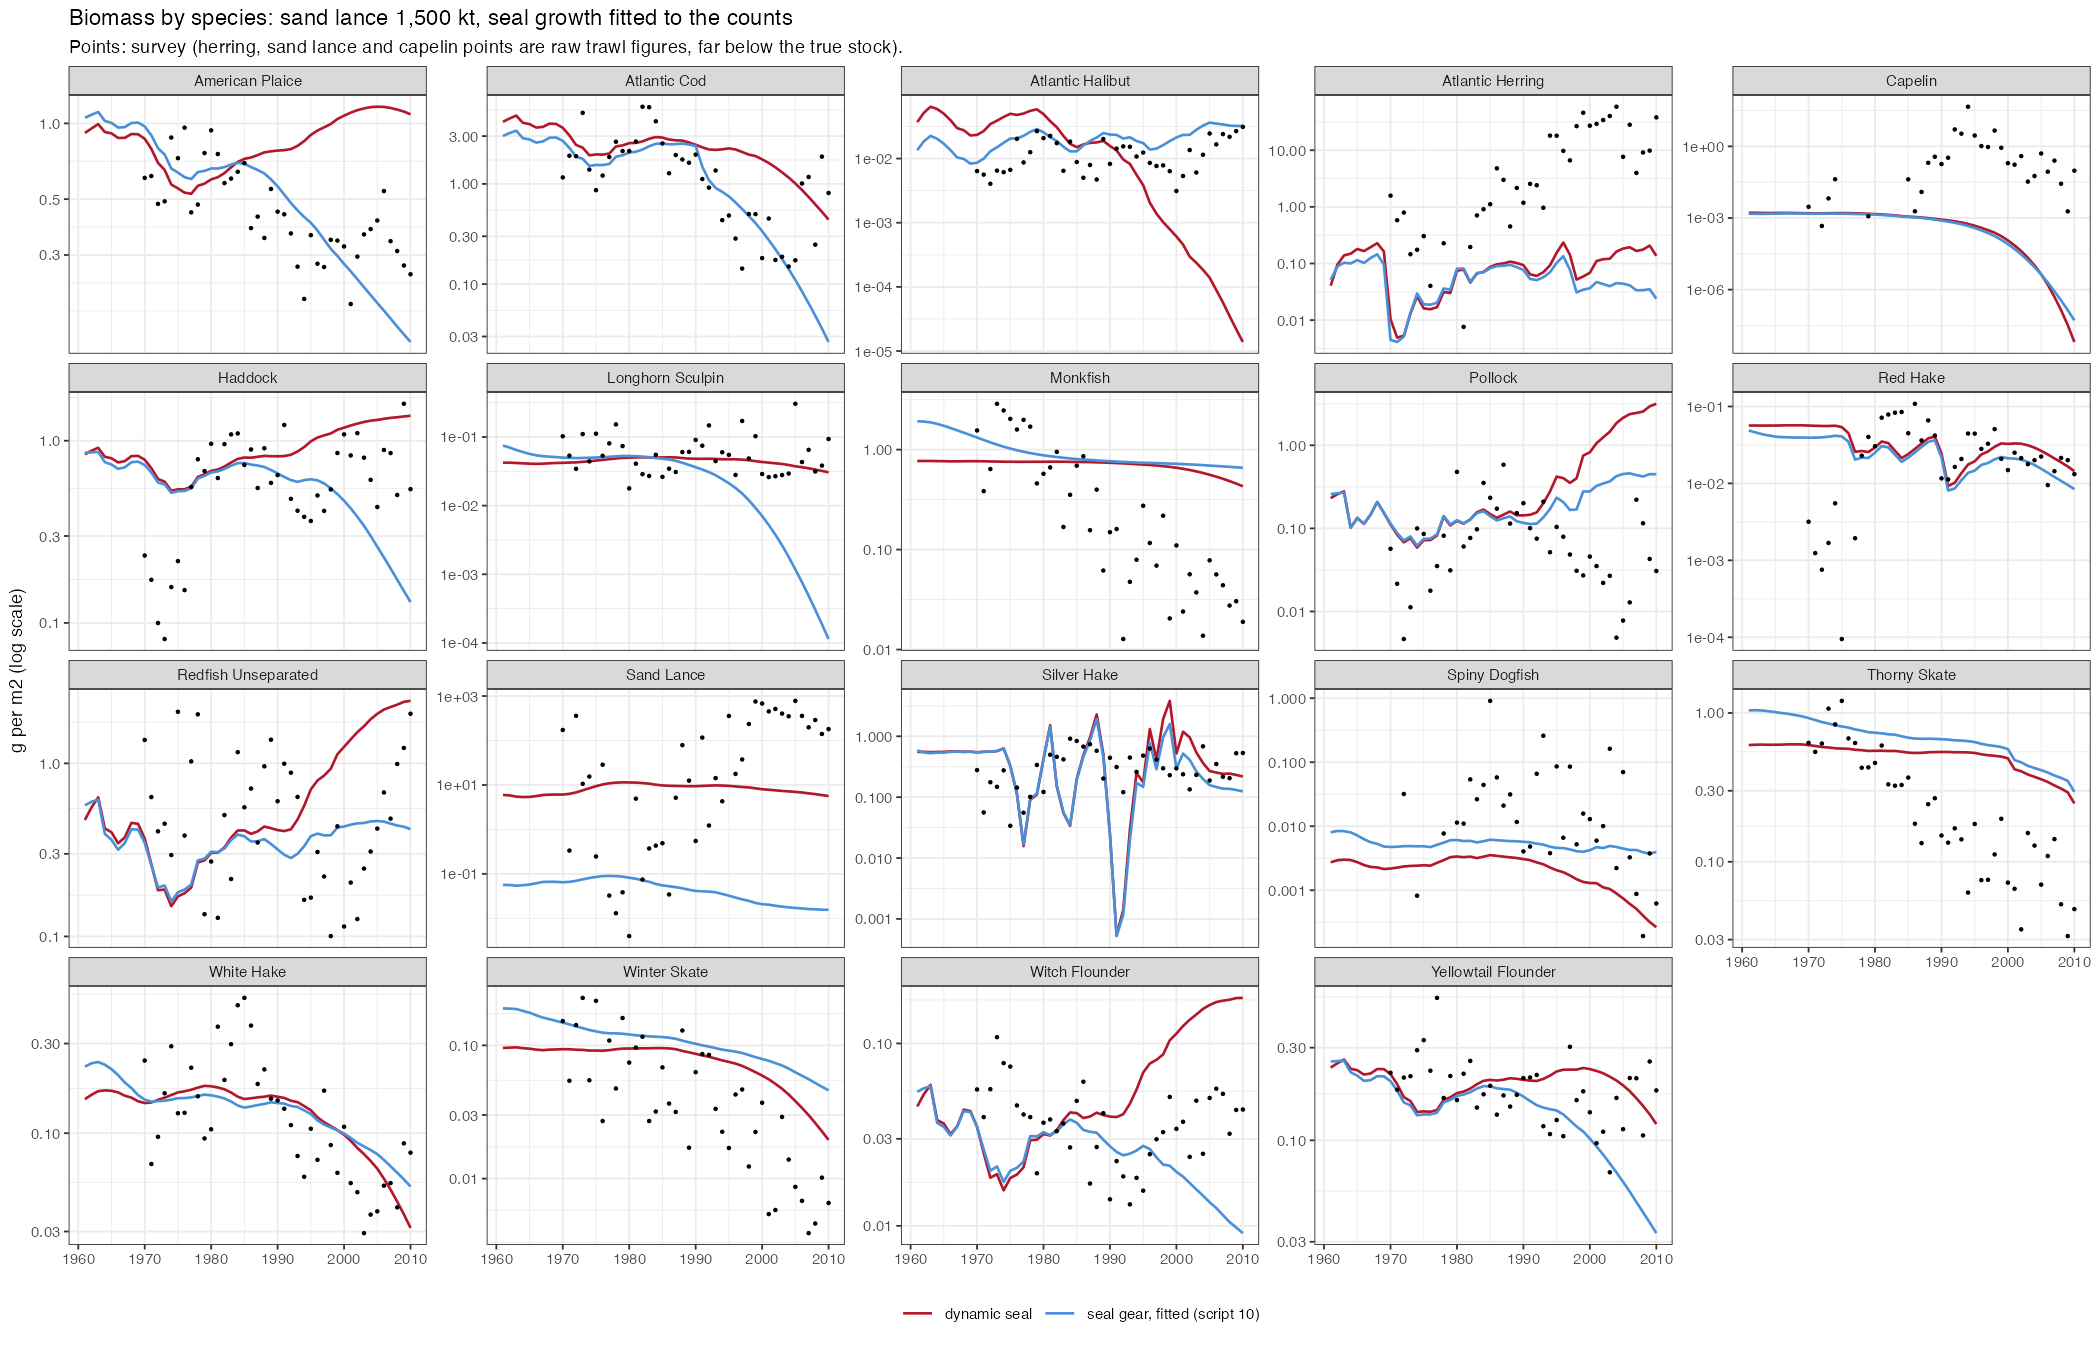
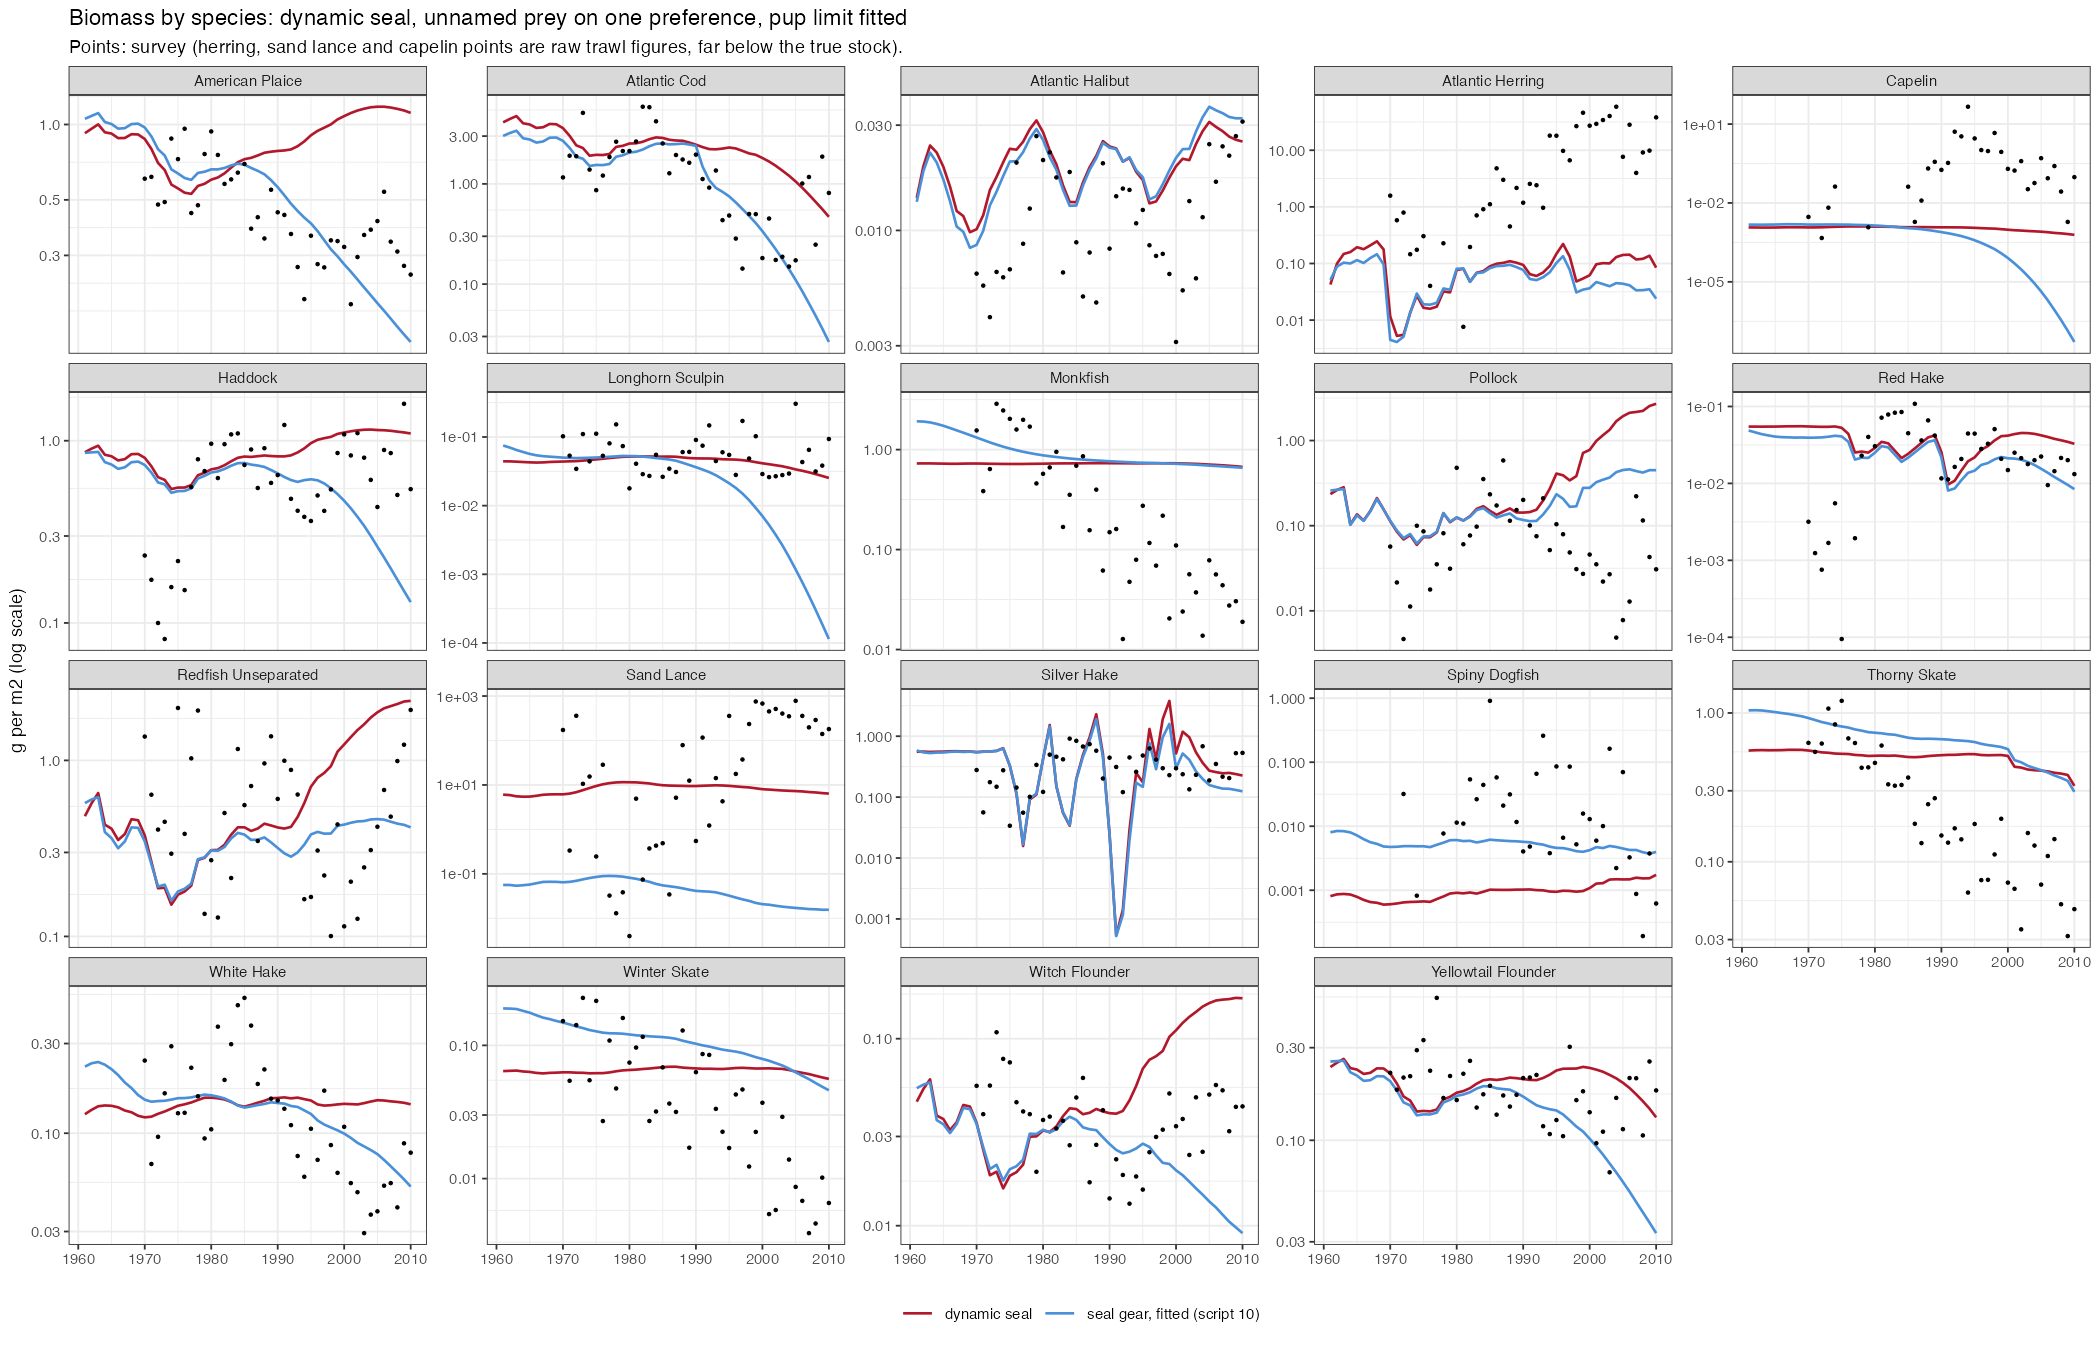
Fix seal preference for unnamed prey and fit a seal pup limit
The species Bowen & Harrison do not name now share one seal preference,
which stops seals eating out halibut. Script 9 fits the seal's pup limit
with its other two rates.

diff --git a/HANDOVER_2026-11-26.md b/HANDOVER_2026-11-26.md
@@ -1895,6 +1895,47 @@ temperature or the seal.
 Julia also judged the size of cod in the seal diet (118 g against 201 g
 measured) close enough.
 
+## 29. Fishing on cod, the halibut fault, and a pup limit for seals
+
+**Does reported fishing collapse cod?** Tested in the dynamic seal model by
+adjusting cod catchability year by year until the model takes exactly the
+reported 4VW cod catch (scratch test, not in the repo). It does not: cod in
+1994-2004 stays at 0.72 of its 1978-81 level (observed 0.13). The model takes
+the 60-115 kt of 1985-92 with a fishing mortality of only 0.17-0.25 a year,
+because it holds 2.8-3.6 g/m2 of cod where the survey shows 1-2. Taking 1.5
+times the reported catch removes cod completely by 1988. So the outcome turns
+on whether the model's cod can replace about 100 kt a year, and it sits
+between "no collapse" and "gone too early". In the standard run the trawl
+effort series also falls from 0.78 (1985) to 0.44 (1992) while reported catch
+held up, so the model's cod catch is 20-45% below the reported one in 1981-87
+and in 1992. The assessment's fishing mortality by year could not be read from
+the DFO documents found (figures only); Mohn & Rowe (2012) give 0.035 for ages
+5-15 after 1993 and a natural mortality of ages 5+ peaking near 1.1.
+
+**Halibut.** Halibut fell to nothing in the section 27 run because of a fault
+in script 8. The 1.7% of the diet that Bowen & Harrison do not name was
+shared equally among the 13 other species, which forced the seal's highest
+preference (1.0) onto halibut, a rare species; seal mortality on young halibut
+reached 8 a year by 2000. Script 8 now gives the unnamed species one shared
+preference, so the seal takes them in proportion to what is there. Halibut
+then holds (0.025 g/m2 in 2010, survey 0.031). Halibut was not what let
+plaice, haddock and redfish rise: predation on their young is under 0.1 a
+year from all predators together. They rise because trawl effort falls from
+0.68 (1990) to 0.05 (2000) and seal mortality on them stays small (0.07 a
+year on young plaice in 2005). Julia's point stands that Bowen & Harrison is
+a snapshot and these species may need a larger place in the later seal diet.
+
+**Seal plateau.** Script 9 now fits a third seal value with
+`FIT_SEALS_IN_FULL_MODEL=1`: the limit on pups recruited a year (the seal's
+R_max). Fitted: erepro 0.0067, harvest 0.057 a year, pup limit 7.2e4. Seals
+are 228/225 thousand (model/count) in 2005 and 331/280 in 2010, against 353
+before. The levelling is only partial: the fit is to log counts over all 50
+years, and the last few years carry little weight.
+
+Run with both changes (1,500 kt sand lance, level 0.9): cod 1994-2004 at 0.76
+(0.13 observed); biomass 1970-2004 x1.43, 12/16 within 2x; held-out biomass
+x2.31. Figures `dynseal_bowen_*.png` are from this run.
+
 ## Commits on `julia`
 
 ```

diff --git a/dynamic_seal_trial/README.md b/dynamic_seal_trial/README.md
@@ -58,7 +58,8 @@ Rscript dynamic_seal_trial/plot_seal_on_bowen_diet.R
   year in the Bowen & Harrison proportions.
 - `9_project_seal_on_bowen_diet.R`: projects 1861-2010. With
   `FIT_SEALS_IN_FULL_MODEL=1` it first fits the seal's reproductive efficiency
-  and harvest rate to the counts inside the full model.
+  and harvest rate, and the limit on pups recruited a year, to the counts
+  inside the full model.
 - Scripts 1, 2 and 5 are the earlier ones, now reading their starting model
   from `BASE_PARAMS` and `SEAL_SOURCE`. They and scripts 8 and 9 still read
   Paper 2's seal parameters and the digitised seal counts from
